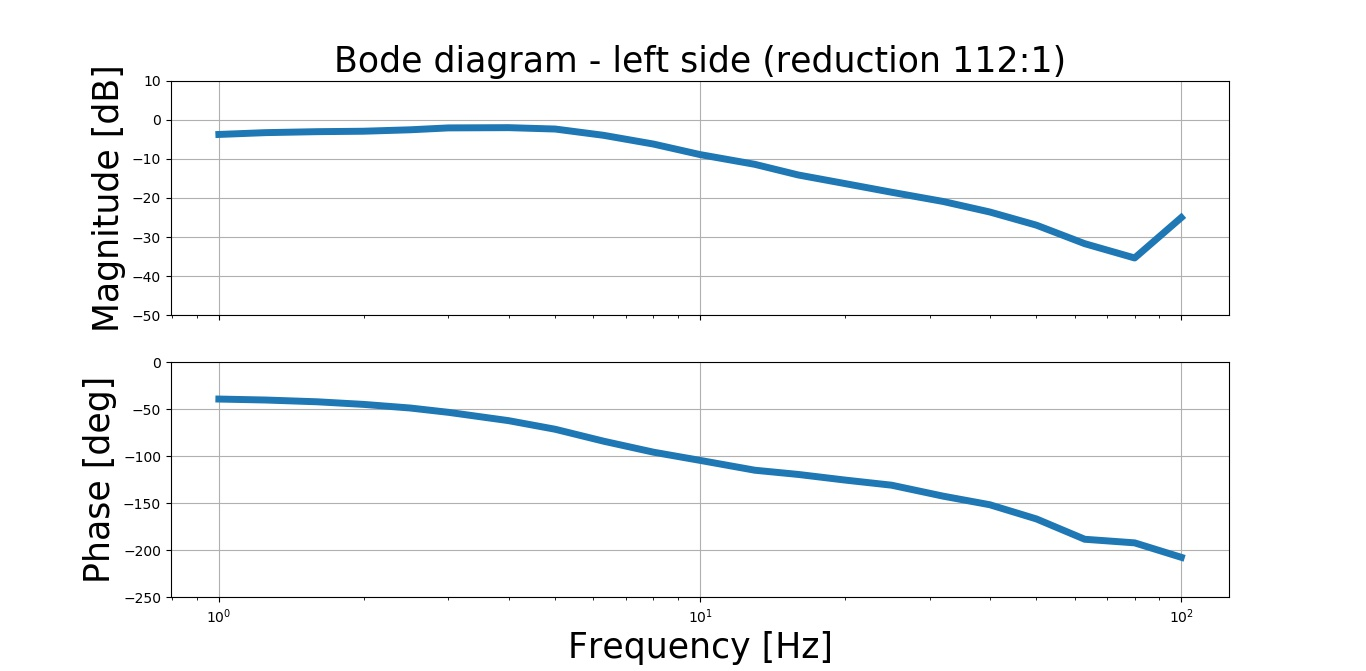
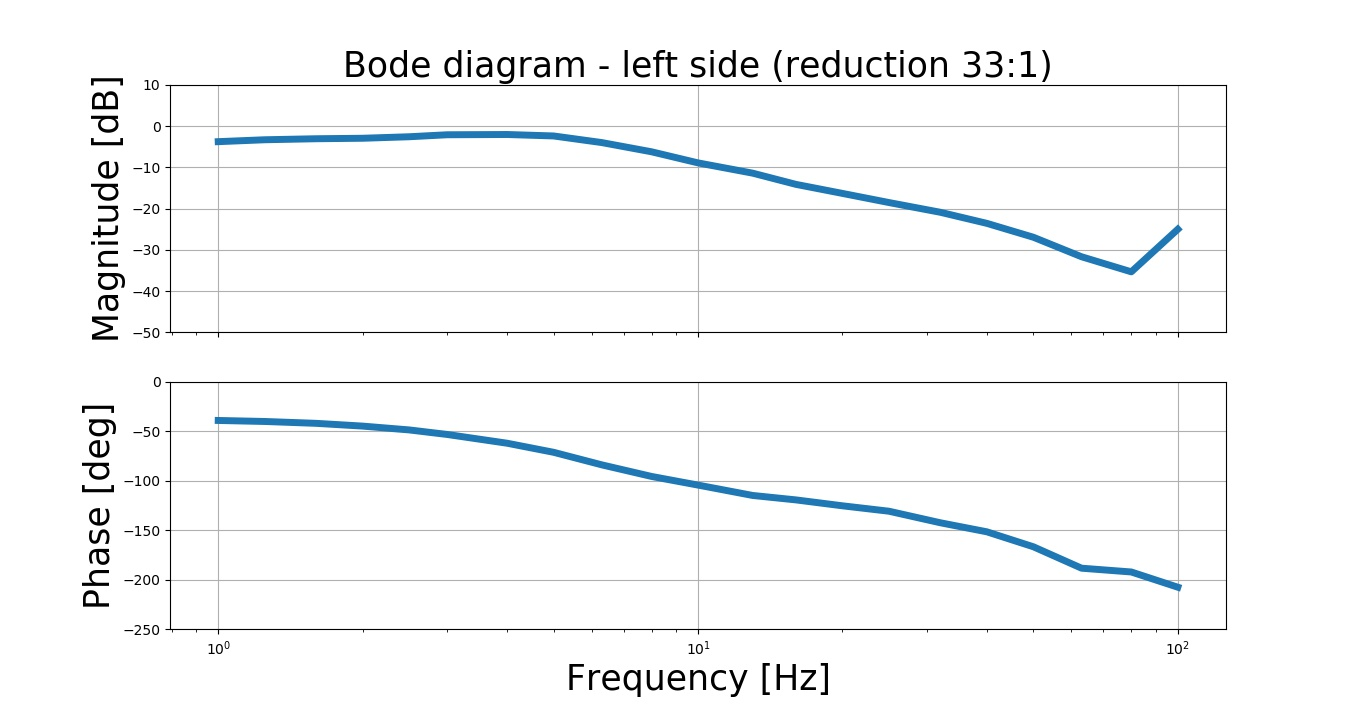
change reduction ration in pilot bode

diff --git a/Python - data analysis/Frequency response analysis/freq_resp_analysis.py b/Python - data analysis/Frequency response analysis/freq_resp_analysis.py
@@ -11,7 +11,7 @@ from math import atan2
 
 PLOT_BOOL = True
 CALC_OPER_FREQ = False
-SHORT_CUT = False
+SHORT_CUT = True
 only_this_file = "f"  # change this to "f" if all frequencies shall be tested, otherwise "f2_csv"
 
 INTMAX = 65535
@@ -77,26 +77,26 @@ freq_vec = []
 for file in os.listdir(directory):
     if SHORT_CUT:  # TODO change this, if you want to skip all the calculation
         freq_vec = [1.25, 1.6, 100, 10, 12.6, 16, 1, 2.5, 20, 25, 2, 3.17, 32, 40, 4, 50, 5, 6.3, 63, 80, 8]
-        amplitude_factor_l = [0.799416733637432, 0.7667896860730155, 0.012930064410057712, 0.886163035116494, 1.0539028385379,
-         1.2553631309178375, 0.5485228643133256, 0.7271570486558785, 1.771153301552638, 1.856629836828452,
-         0.7439990041010173, 0.6412328551388515, 0.7292668132466229, 0.292789276593969, 0.7200959231023342,
-         0.13790529873693017, 0.7095685244613104, 0.7570767881147411, 0.046083133320888814, 0.020626216575329728,
-         0.8310095848858013]
-        phasediff_l = [-38.73605806634963, 322.27688815427564, 141.2832868116251, 316.9674472063448, -48.30048922131183,
-         -53.82007663793567, -46.70505454015385, -36.02871569579703, 290.28791270901047, -124.77746184126329,
-         -36.69452298585763, 194.02660778501553, -35.750205152770576, 181.66746379481447, -36.28048704476845,
-         168.57983107747438, -35.798979376740064, -36.53137677809737, -186.65793332798125, 159.29019034277394,
-         -39.06967028129457]
-        amplitude_factor_r = [0.2913556996266289, 0.3096982159230326, 0.014606541602101645, 0.8503446629663008, 0.9562814545013333,
-         1.1574294953732818, 0.3220837174229254, 0.33733945716963754, 1.0244325827379919, 0.48118717811179557,
-         0.31167869598626446, 0.1910562823299711, 0.36446981176005694, 0.09697678207816754, 0.4446438318738223,
-         0.0615489355912634, 0.5230474529728547, 0.6720231215290386, 0.03229312280229192, 0.020666015650535798,
-         0.7811466935221499]
-        phasediff_r = [-50.73738070012698, 312.74455751738947, 170.38153669967616, 303.5522315882305, -66.88179082887815,
-         -83.94810903112638, -53.391872377582885, -45.164573041818784, 243.8948273139621, -137.27304754162802,
-         -46.73796014714254, -152.52390717466915, -44.38626992981787, 200.56535438211046, -44.08052174199274,
-         197.1874797322331, -44.67904944711185, -45.772155134937464, -176.5715555408445, 175.4637481769663,
-         -51.73629979887709]
+        amplitude_factor_l = [0.6826234034854604, 0.702374068644084, 0.05610956954278812, 0.3579372634987285, 0.26866083287735826,
+         0.19647660916392465, 0.647273557667352, 0.7424797291501742, 0.15264512730303045, 0.11829267140399782,
+         0.7117423136609905, 0.0901260959293993, 0.7848023817050434, 0.06615899237338108, 0.7905173847409144,
+         0.044896725338400285, 0.7590282516526557, 0.6311748818364169, 0.026049768482241147, 0.017103178371389995,
+         0.4879827264237093]
+        phasediff_l = [-40.10687754626554, -41.98509752016072, 152.4520139097022, 255.6319030383657, -114.85232848050612,
+         -119.33613045636007, -39.078149644094864, -48.631722825286644, -125.30530032192252, 229.22824092038974,
+         -44.777581888368445, 217.55446351786463, -53.22182715259622, 208.4141552514917, 297.92861841460507,
+         -166.6962457862339, -71.23913013944895, -83.9110927646621, 171.66651258712463, 167.8372131209474,
+         -95.63151954764379]
+        amplitude_factor_r = [1.000217496008667, 1.0224667693424105, 0.14262450160374648, 0.5439481391284673, 0.39119884378164393,
+         0.28047123242674943, 0.9530565602417771, 1.0894258166953414, 0.20496294743197854, 0.14956632734620307,
+         1.044891618639843, 0.10853587895896519, 1.1512376656897343, 0.08565315014067588, 1.1669485083013422,
+         0.06478991960980265, 1.1083119776877381, 0.9267128544601474, 0.05252185473693241, 0.04482807213226543,
+         0.7245426097285498]
+        phasediff_r = [-40.22745932910232, -42.80798510252933, 137.79294684175713, 253.88666919350538, -117.93014090329234,
+         -121.63329538954531, -39.35752372223705, -49.28601025949844, -126.85033117262097, 226.5150457468216,
+         -45.27174647943687, 219.08656716857047, -53.62205292081548, 214.34742948046522, 296.93419365531673,
+         -171.53790001253358, -72.39259793369217, -85.77067297709058, 200.7164467428948, 206.21724432342802,
+         -97.60000229355124]
 
         freq_vec = [1.25, 1.6, 100.0, 10.0, 13.0, 16.0, 1.0, 2.5, 20.0, 25.0, 2.0, 32.0, 3.0, 40.0, 4.0, 50.0, 5.0, 6.3, 63.0,
          80.0, 8.0]
@@ -203,7 +203,7 @@ amplitude_factor_r = 20 * np.log10(amplitude_factor_r)
 
 left_bode, axarr_l = plt.subplots(2, sharex=True)
 left_lines = axarr_l[0].semilogx([freq_vec[x] for x in indices], [amplitude_factor_l[x] for x in indices], linewidth=5.0, label='Left side')
-axarr_l[0].set_title('Bode diagram - left side (reduction 112:1)', fontsize=25)
+axarr_l[0].set_title('Bode diagram - left side (reduction 33:1)', fontsize=25)
 """
 right_lines = axarr_l[0].semilogx([freq_vec[x] for x in indices], [amplitude_factor_r[x] for x in indices], linewidth=5.0, label='Right side')
 axarr_l[0].legend()
@@ -231,7 +231,7 @@ left_bode.savefig(figure_directory + '/bode_left.jpg')
 
 right_bode, axarr_r = plt.subplots(2, sharex=True)
 axarr_r[0].semilogx([freq_vec[x] for x in indices], [amplitude_factor_r[x] for x in indices], linewidth=5.0)
-axarr_r[0].set_title('Bode diagram - right side (reduction 112:1)', fontsize=25)
+axarr_r[0].set_title('Bode diagram - right side (reduction 33:1)', fontsize=25)
 axarr_r[1].semilogx([freq_vec[x] for x in indices], [phasediff_r[x] if phasediff_r[x] < 0 else phasediff_r[x] - 360 for x in indices], linewidth=5.0)
 #axarr_r[1].semilogx([freq_vec[x] for x in indices], [phasediff_r[x] for x in indices])
 axarr_r[1].set_xlabel('Frequency [Hz]', fontsize=25)
